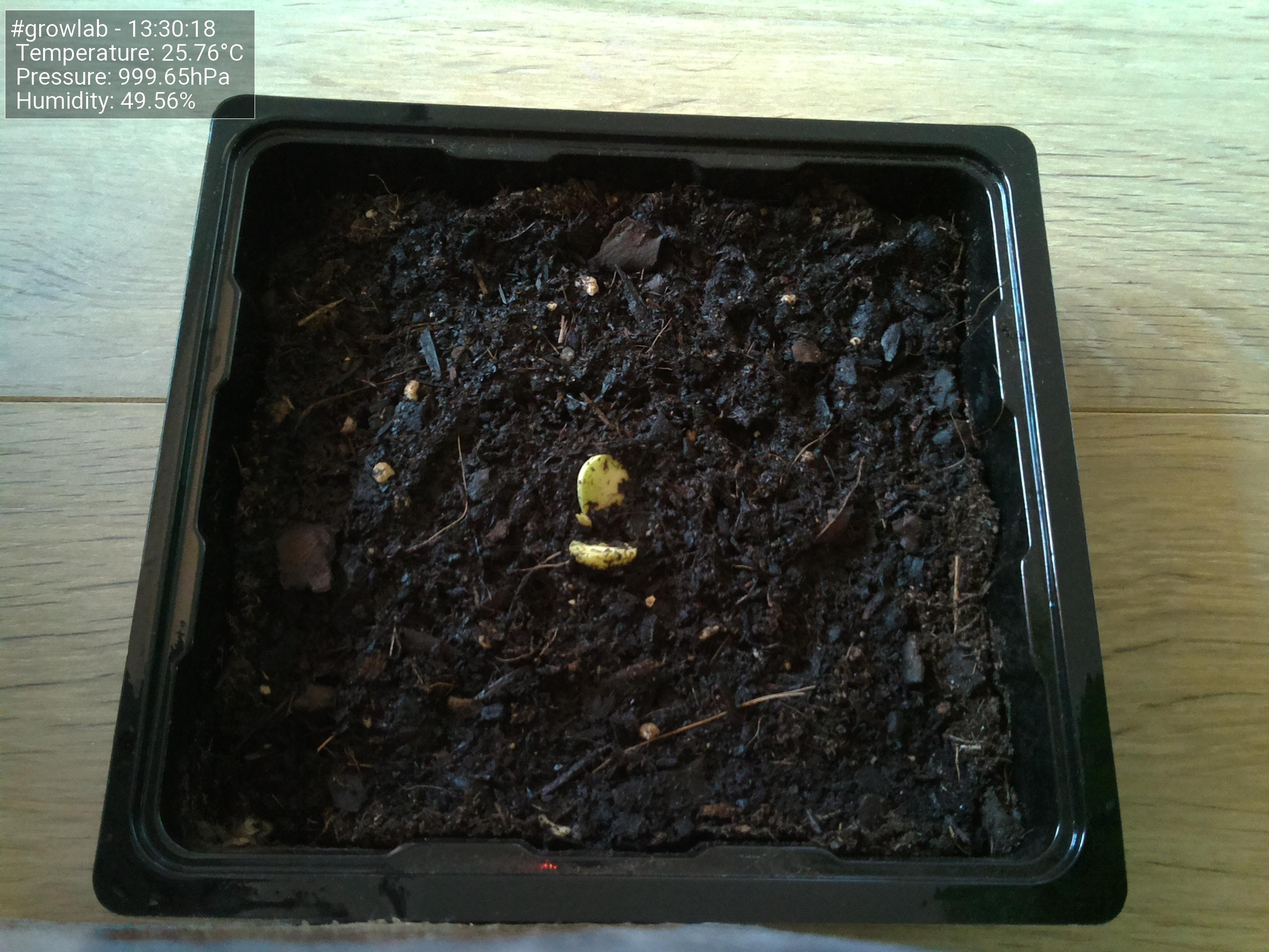
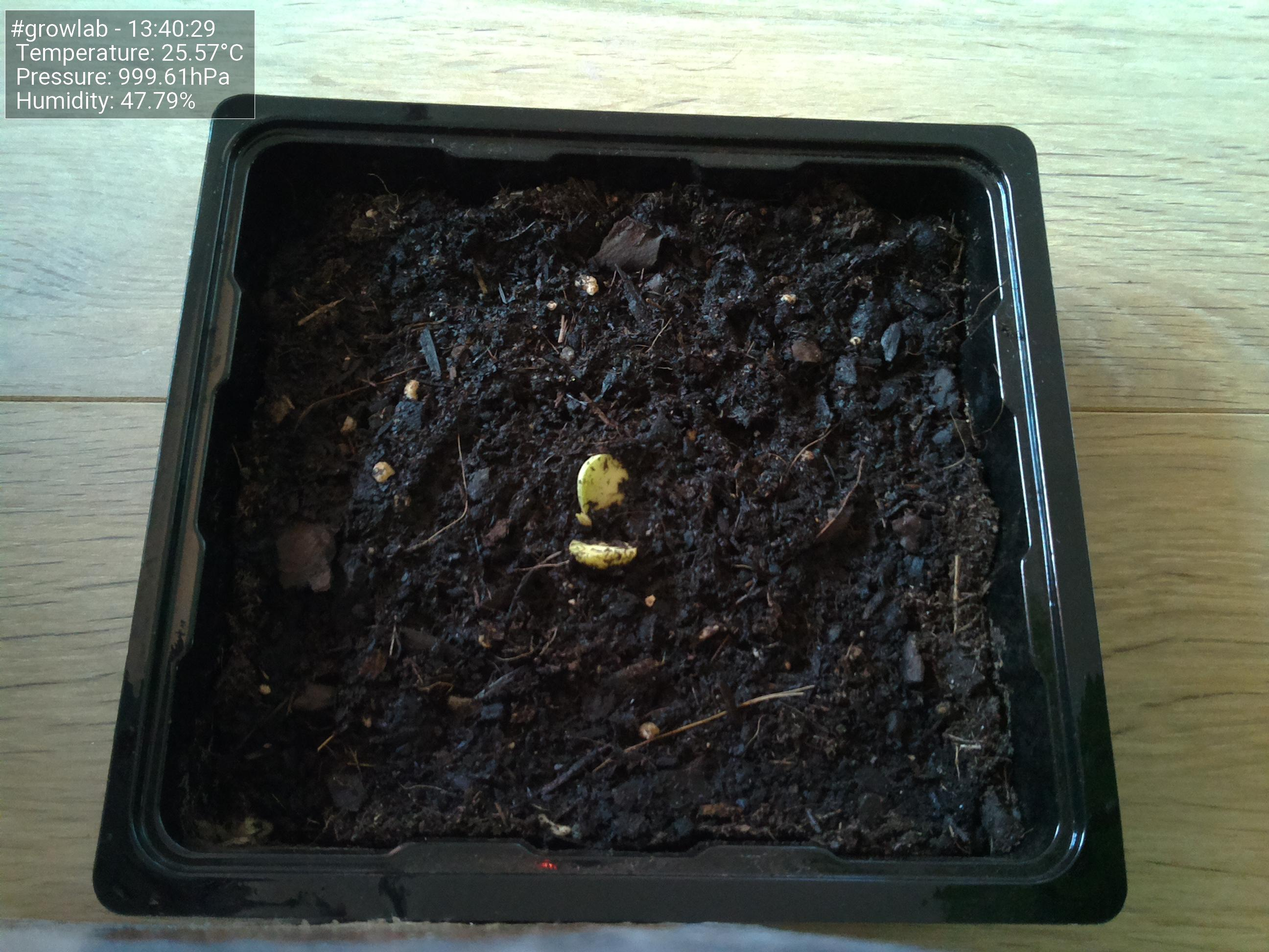
Update images at Sat 12 Jun 13:40:33 CEST 2021

diff --git a/docs/index.html b/docs/index.html
@@ -47,19 +47,19 @@
                         <tbody>
                             <tr>
                                 <td>Time</td>
-                                <td>13:30:18</td>
+                                <td>13:40:29</td>
                             </tr>
                             <tr>
                                 <td>Temperature</td>
-                                <td>25.76°C</td>
+                                <td>25.57°C</td>
                             </tr>
                             <tr>
                                 <td>Humidity</td>
-                                <td>49.56%</td>
+                                <td>47.79%</td>
                             </tr>
                             <tr>
                                 <td>Pressure</td>
-                                <td>999.65hPa</td>
+                                <td>999.61hPa</td>
                             </tr>
                         </tbody>
                     </table>
@@ -67,7 +67,7 @@
 
                 <h5>Latest image</h5>
                 <div style="width: 85%;">
-                            <img class="figure-img img-fluid rounded" src="./preview.jpg?uid=1623497422.5546863">
+                            <img class="figure-img img-fluid rounded" src="./preview.jpg?uid=1623498033.6071513">
                 </div>
             </div>
         </div>
